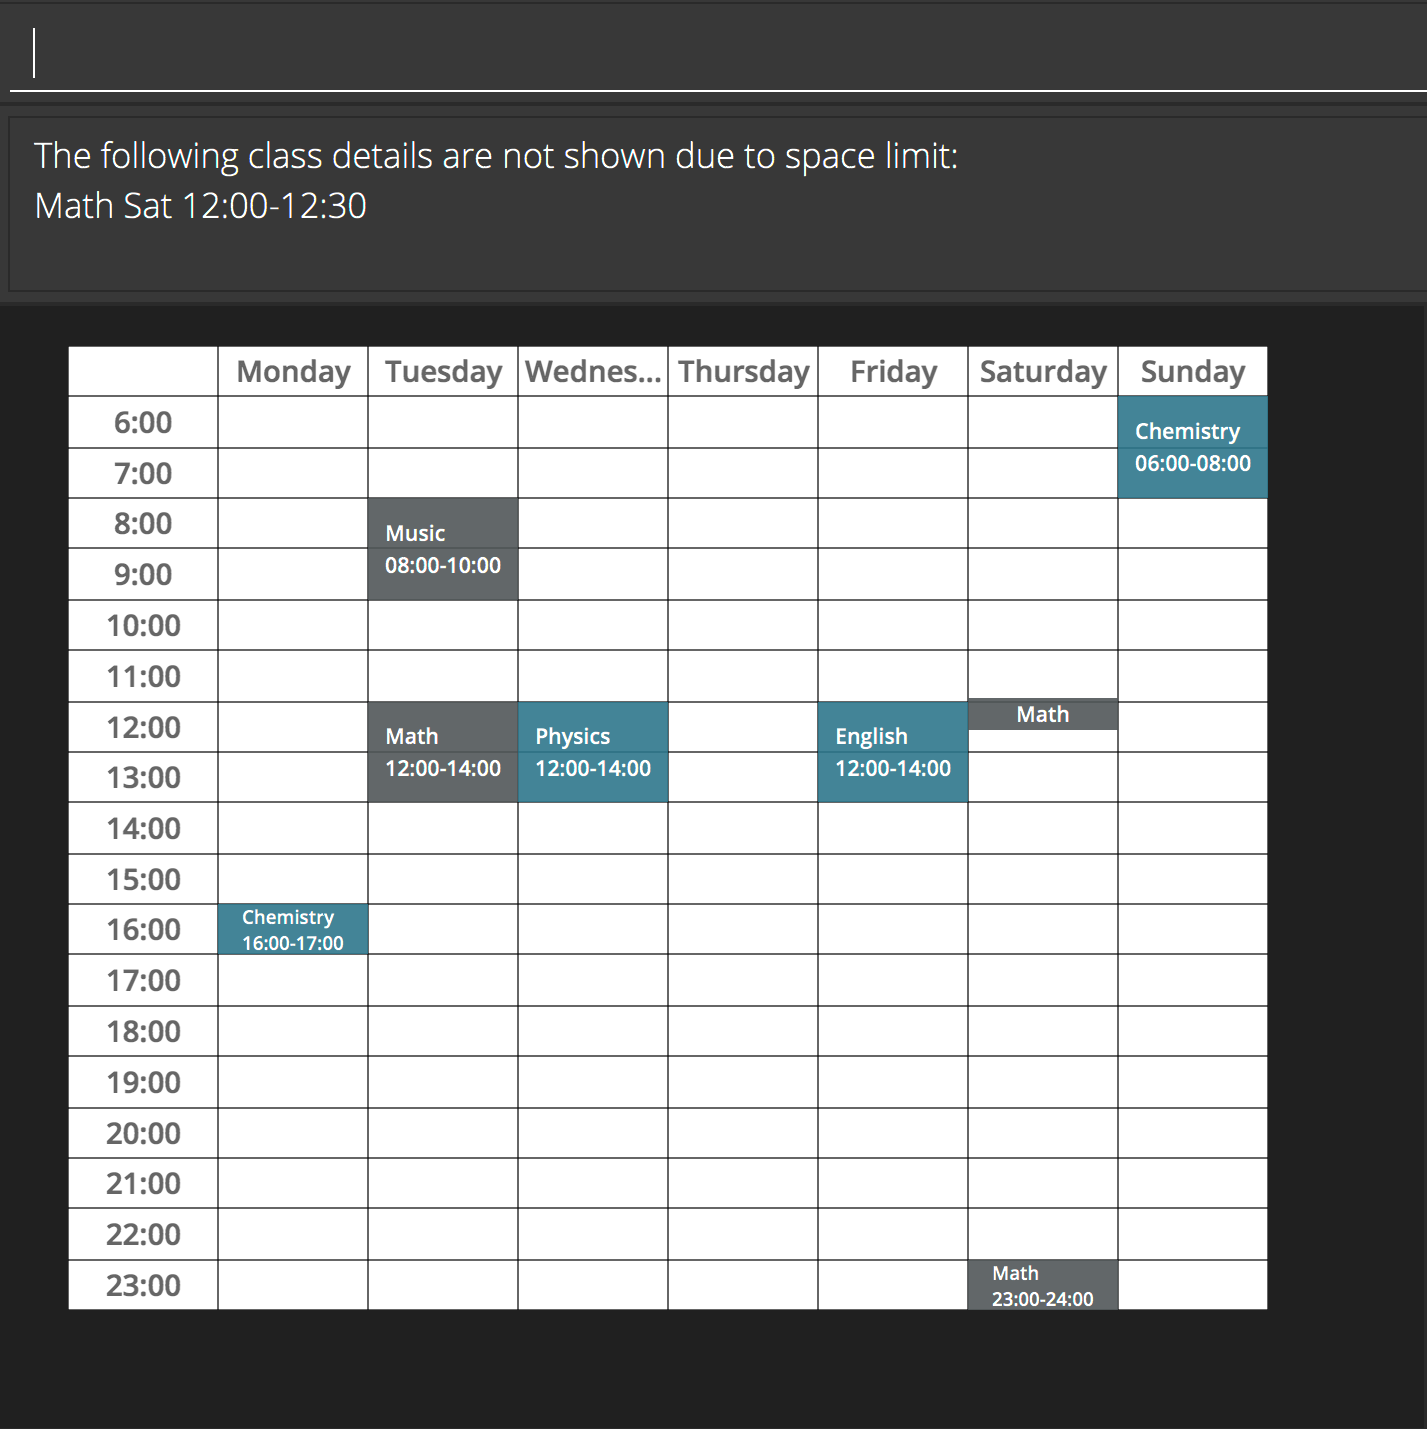
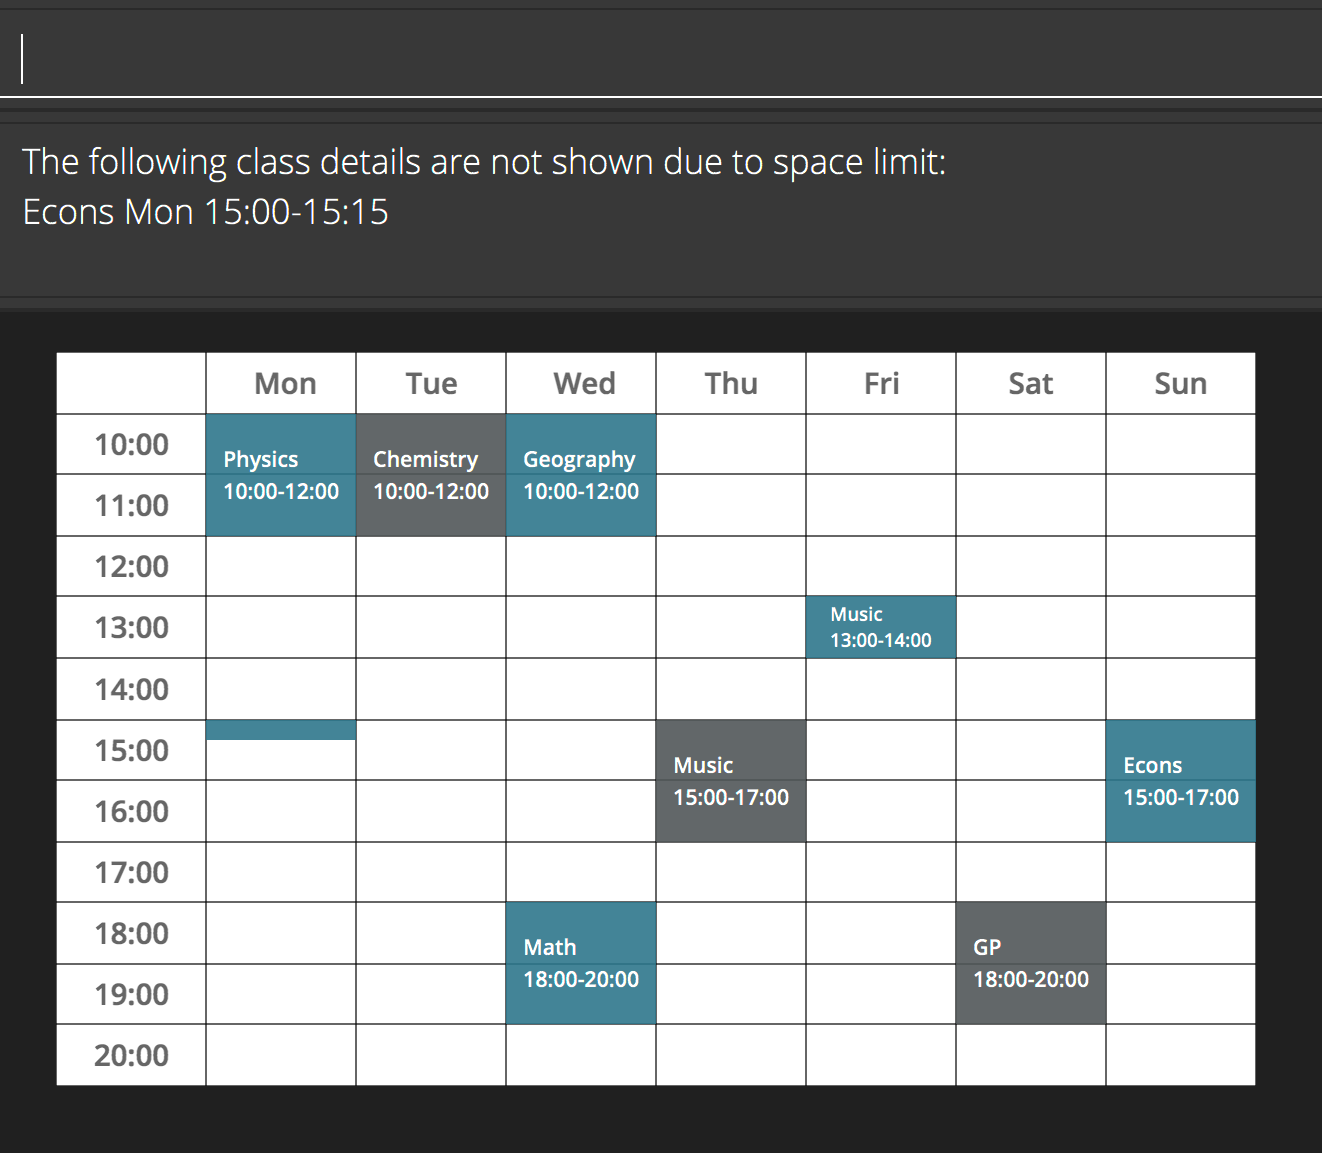
Resolve truncate of timetable header

Changed region(s): [[0.0, 0.0312, 1.0, 0.9679]]

diff --git a/src/main/java/seedu/address/ui/infopage/TimetableInfoPage.java b/src/main/java/seedu/address/ui/infopage/TimetableInfoPage.java
@@ -24,8 +24,7 @@ public class TimetableInfoPage extends InfoPage {
     private static final String PANE_BORDER = "-fx-border-width:0.3px;-fx-border-color:black";
     private static final String PANE_NO_BORDER = "-fx-border-width:0px;";
     private static final Logger logger = LogsCenter.getLogger(TimetableInfoPage.class);
-    private static final String[] days = new String[]{"Monday", "Tuesday", "Wednesday",
-        "Thursday", "Friday", "Saturday", "Sunday"};
+    private static final String[] days = convertDays();
     private final int numCols = 8;
     private Timetable timetable;
 
@@ -122,5 +121,20 @@ public class TimetableInfoPage extends InfoPage {
         label.setAlignment(Pos.CENTER);
         pane.getChildren().add(label);
         return pane;
+    }
+
+    private static String[] convertDays() {
+        String[] dayOfWeek = new String[]{"Mon", "Tue", "Wed",
+            "Thu", "Fri", "Sat", "Sun"};
+        String sixSpaces = "      ";
+        String fiveSpaces = "     ";
+        for (int i = 0; i < dayOfWeek.length; i++) {
+            if (i == 0 || i == 2) {
+                dayOfWeek[i] = sixSpaces + dayOfWeek[i] + fiveSpaces;
+            } else {
+                dayOfWeek[i] = sixSpaces + dayOfWeek[i] + sixSpaces;
+            }
+        }
+        return dayOfWeek;
     }
 }
